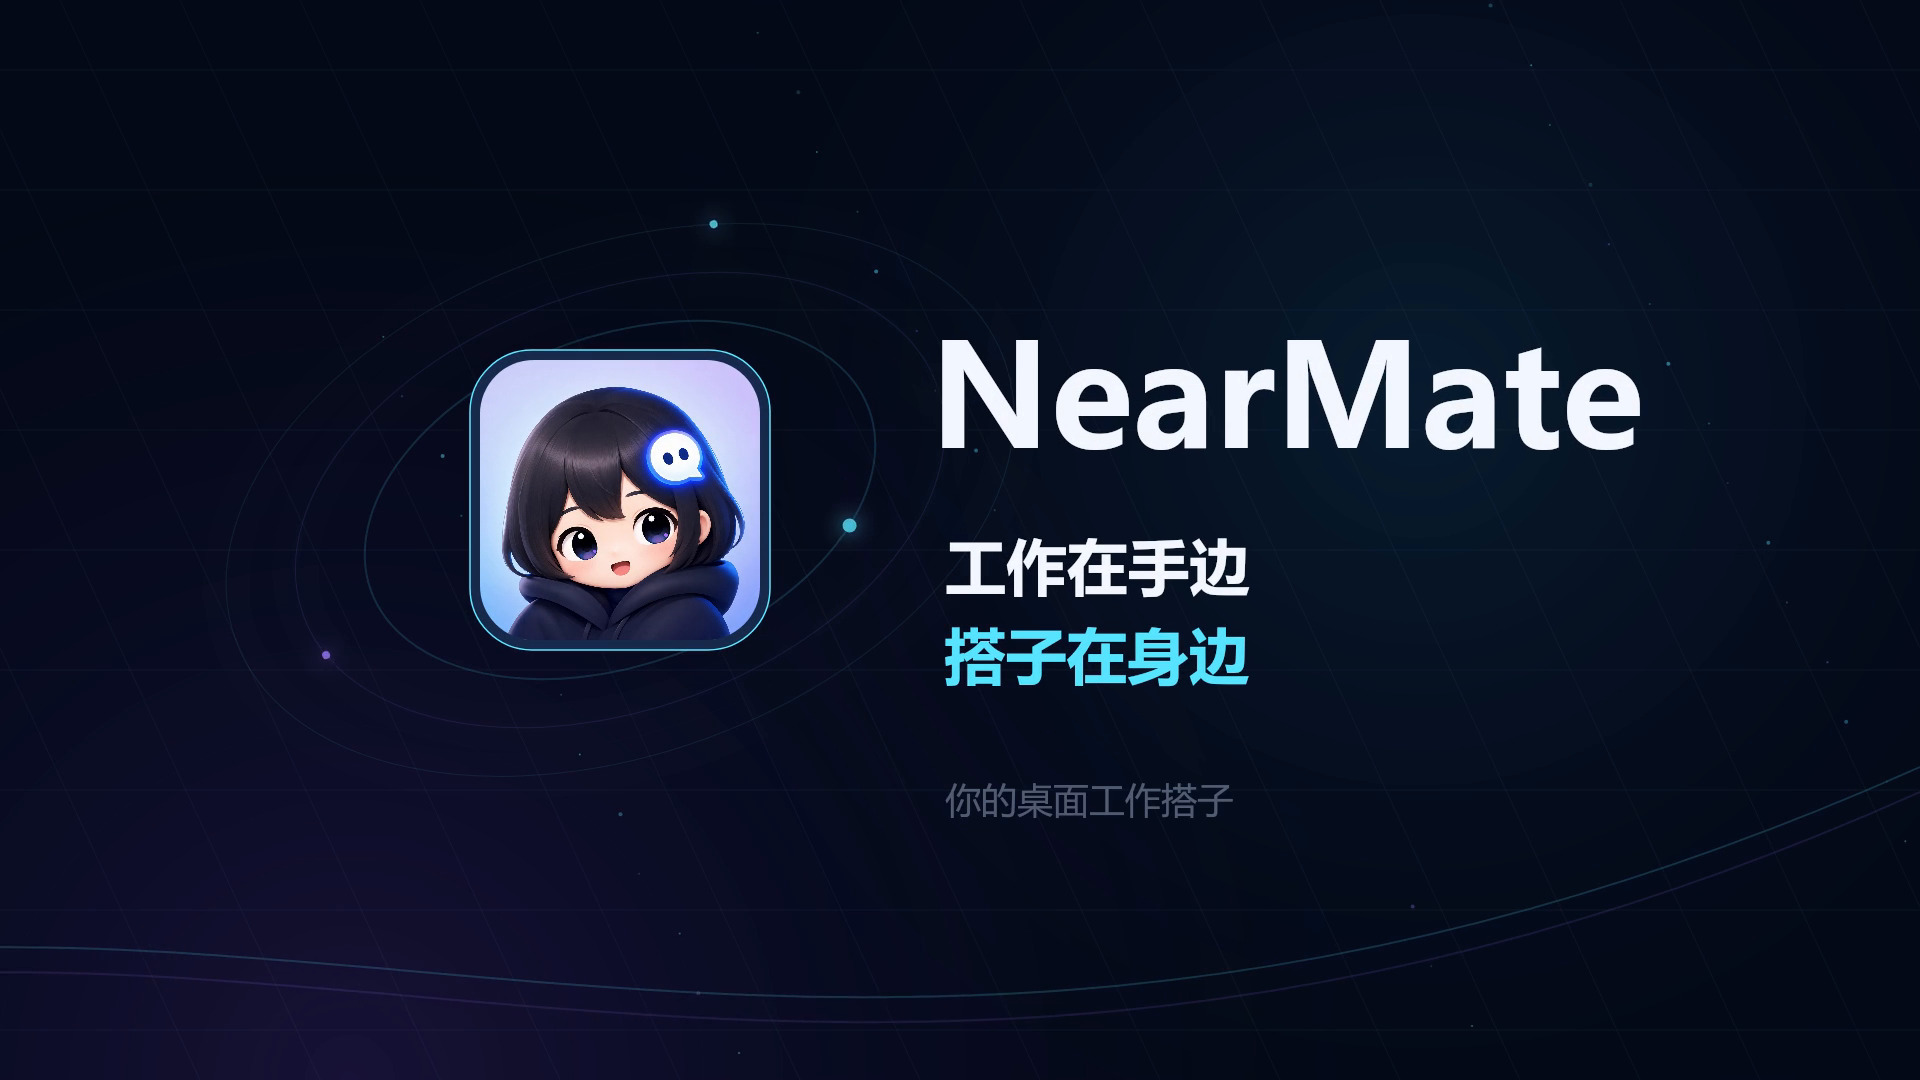
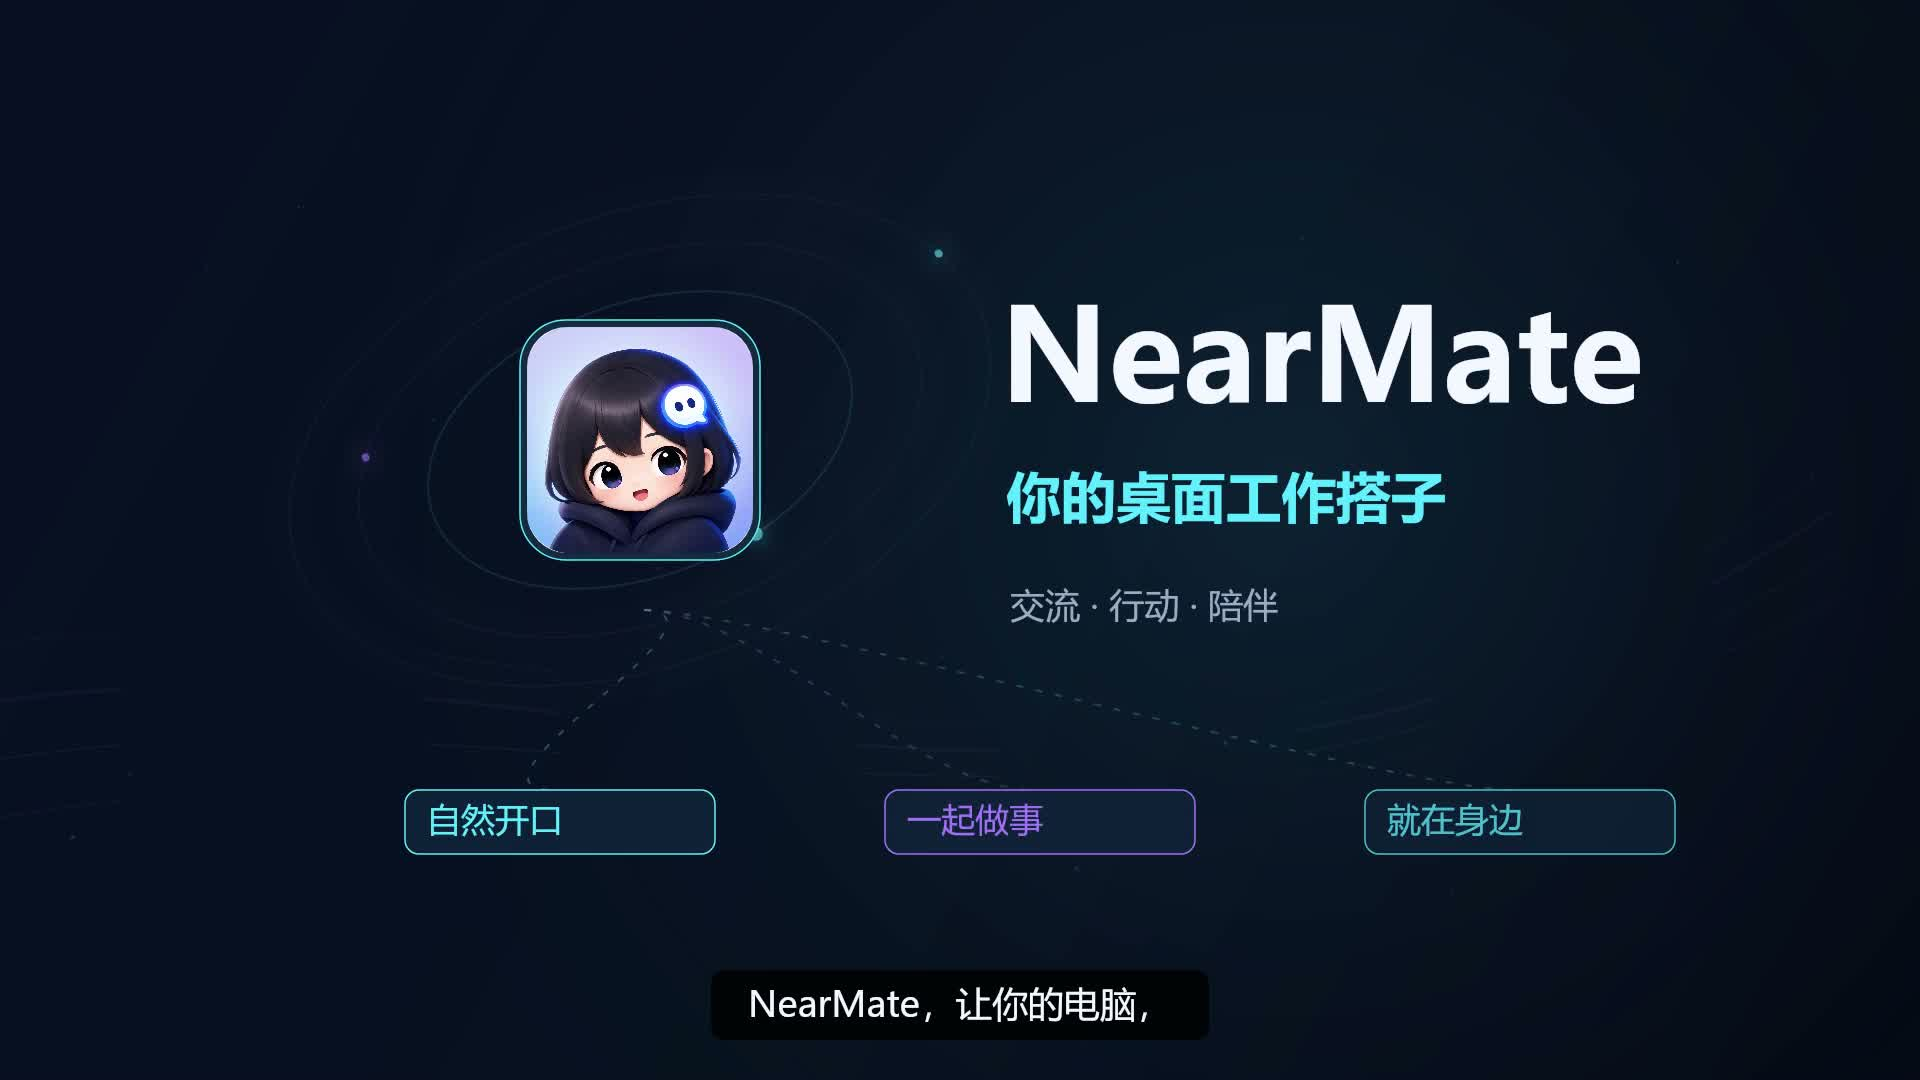
feat: publish complete NearMate product film

diff --git a/index.html b/index.html
@@ -39,7 +39,7 @@
             一个常驻桌面的 AI 工作搭子。<br>看你正在看的，聊你正在想的，<br>也帮你把手头的小事往前推进。
           </p>
           <div class="hero-actions">
-            <a class="button button-primary" href="#download"><svg aria-hidden="true" viewBox="0 0 20 20"><path d="M2 3.5 9 2.5v7H2zm8-1.2L18 1v8.5h-8zM2 10.5h7v7l-7-1zm8 0h8V19l-8-1.2z"/></svg>下载 Windows 版</a><a class="text-link" href="https://github.com/RoversCode/NearMate/releases" target="_blank" rel="noreferrer">查看 GitHub Releases <span aria-hidden="true">↗</span></a><a class="text-link" href="#film">看 60 秒宣传片 <span aria-hidden="true">▷</span></a>
+            <a class="button button-primary" href="#download"><svg aria-hidden="true" viewBox="0 0 20 20"><path d="M2 3.5 9 2.5v7H2zm8-1.2L18 1v8.5h-8zM2 10.5h7v7l-7-1zm8 0h8V19l-8-1.2z"/></svg>下载 Windows 版</a><a class="text-link" href="https://github.com/RoversCode/NearMate/releases" target="_blank" rel="noreferrer">查看 GitHub Releases <span aria-hidden="true">↗</span></a><a class="text-link" href="#film">看完整宣传片 <span aria-hidden="true">▷</span></a>
           </div>
           <p class="hero-note">
             Windows x64<span aria-hidden="true"> / </span>CUDA 与 Universal 双版本
@@ -164,22 +164,22 @@
       <section class="film-section page-width" id="film" aria-labelledby="film-title">
         <div class="film-heading">
           <div>
-            <p class="eyebrow">MEET NEARMATE IN 60 SECONDS</p>
+            <p class="eyebrow">THE NEARMATE PRODUCT FILM</p>
             <h2 id="film-title">看看搭子，怎么陪你做事。</h2>
           </div>
-          <p>语音交流、处理材料，再到桌面上的行动。<br>用一段实机演示，认识 NearMate。</p>
+          <p>听听真实演示中的角色声音，看看角色卡如何定义身份、语气、关系和声音。<br>用 2 分 36 秒，认识你的桌面搭子。</p>
         </div>
         <figure class="film-card">
-          <video controls playsinline preload="none" poster="./assets/images/promo-poster.jpg" width="1920" height="1080" aria-label="NearMate 60 秒宣传片">
-            <source src="https://github.com/RoversCode/NearMate/releases/download/v0.1.0-rebuild.1/NearMate-Promo-60s-1080p.mp4" type="video/mp4">
-            <p>可<a href="https://github.com/RoversCode/NearMate/releases/download/v0.1.0-rebuild.1/NearMate-Promo-60s-1080p.mp4">下载 MP4 宣传片</a>观看。</p>
+          <video controls playsinline preload="none" poster="./assets/images/promo-poster.jpg" width="1920" height="1080" aria-label="NearMate 2 分 36 秒完整宣传片">
+            <source src="https://github.com/RoversCode/NearMate/releases/download/v0.1.0-rebuild.1/NearMate-Product-Film-1080p.mp4" type="video/mp4">
+            <p>可<a href="https://github.com/RoversCode/NearMate/releases/download/v0.1.0-rebuild.1/NearMate-Product-Film-1080p.mp4">下载 MP4 宣传片</a>观看。</p>
           </video>
           <figcaption>
-            <div><strong>NearMate · 工作在手边，搭子在身边。</strong><span class="film-meta">60 秒 · 1080p · 实机演示与动态图形</span></div>
-            <a class="text-link" href="https://github.com/RoversCode/NearMate/releases/download/v0.1.0-rebuild.1/NearMate-Promo-60s-1080p.mp4" download="NearMate-Promo-60s-1080p.mp4">下载 MP4 <span aria-hidden="true">↓</span></a>
+            <div><strong>NearMate · 工作在手边，搭子在身边。</strong><span class="film-meta">2 分 36 秒 · 1080p · 角色原声与实机演示</span></div>
+            <a class="text-link" href="https://github.com/RoversCode/NearMate/releases/download/v0.1.0-rebuild.1/NearMate-Product-Film-1080p.mp4" download="NearMate-Product-Film-1080p.mp4">下载完整 MP4 <span aria-hidden="true">↓</span></a>
           </figcaption>
         </figure>
-        <p class="film-note">真实演示录于 2026 年 9 月，实际界面与功能以当前发行版为准。</p>
+        <p class="film-note">影片保留真实演示中的角色声音，也带你认识默认角色「火花」：有网感、嘴硬护短，正事认真。请开启声音观看完整影片；实际界面与功能以当前发行版为准。</p>
       </section>
       <section class="start-section" id="start" aria-labelledby="start-title">
         <div class="page-width start-layout">

diff --git a/releases/v0.1.0-rebuild.1.md b/releases/v0.1.0-rebuild.1.md
@@ -2,11 +2,11 @@
 
 此版本修复安装后的图标、音视频处理和模型切换问题。应用版本仍为 **0.1.0**，已有授权可继续使用。
 
-## 60 秒认识 NearMate
+## 2 分 36 秒认识 NearMate
 
-[在线观看宣传片](https://roverscode.github.io/NearMate/#film) · [下载 1080p MP4](https://github.com/RoversCode/NearMate/releases/download/v0.1.0-rebuild.1/NearMate-Promo-60s-1080p.mp4)
+[在线观看完整宣传片](https://roverscode.github.io/NearMate/#film) · [下载 1080p MP4](https://github.com/RoversCode/NearMate/releases/download/v0.1.0-rebuild.1/NearMate-Product-Film-1080p.mp4)
 
-通过真实演示与动态图形，看看 NearMate 如何陪你交流、处理材料和推进桌面任务。演示录于 2026 年 9 月，实际界面与功能以当前发行版为准。
+影片保留真实演示中的角色声音，也带你认识默认角色「火花」：有网感、嘴硬护短，正事认真。再看看角色卡如何定义身份、语气、关系和声音，以及 NearMate 如何陪你交流、处理材料和推进桌面任务。请开启声音观看；实际界面与功能以当前发行版为准。
 
 ## 更新内容
 
